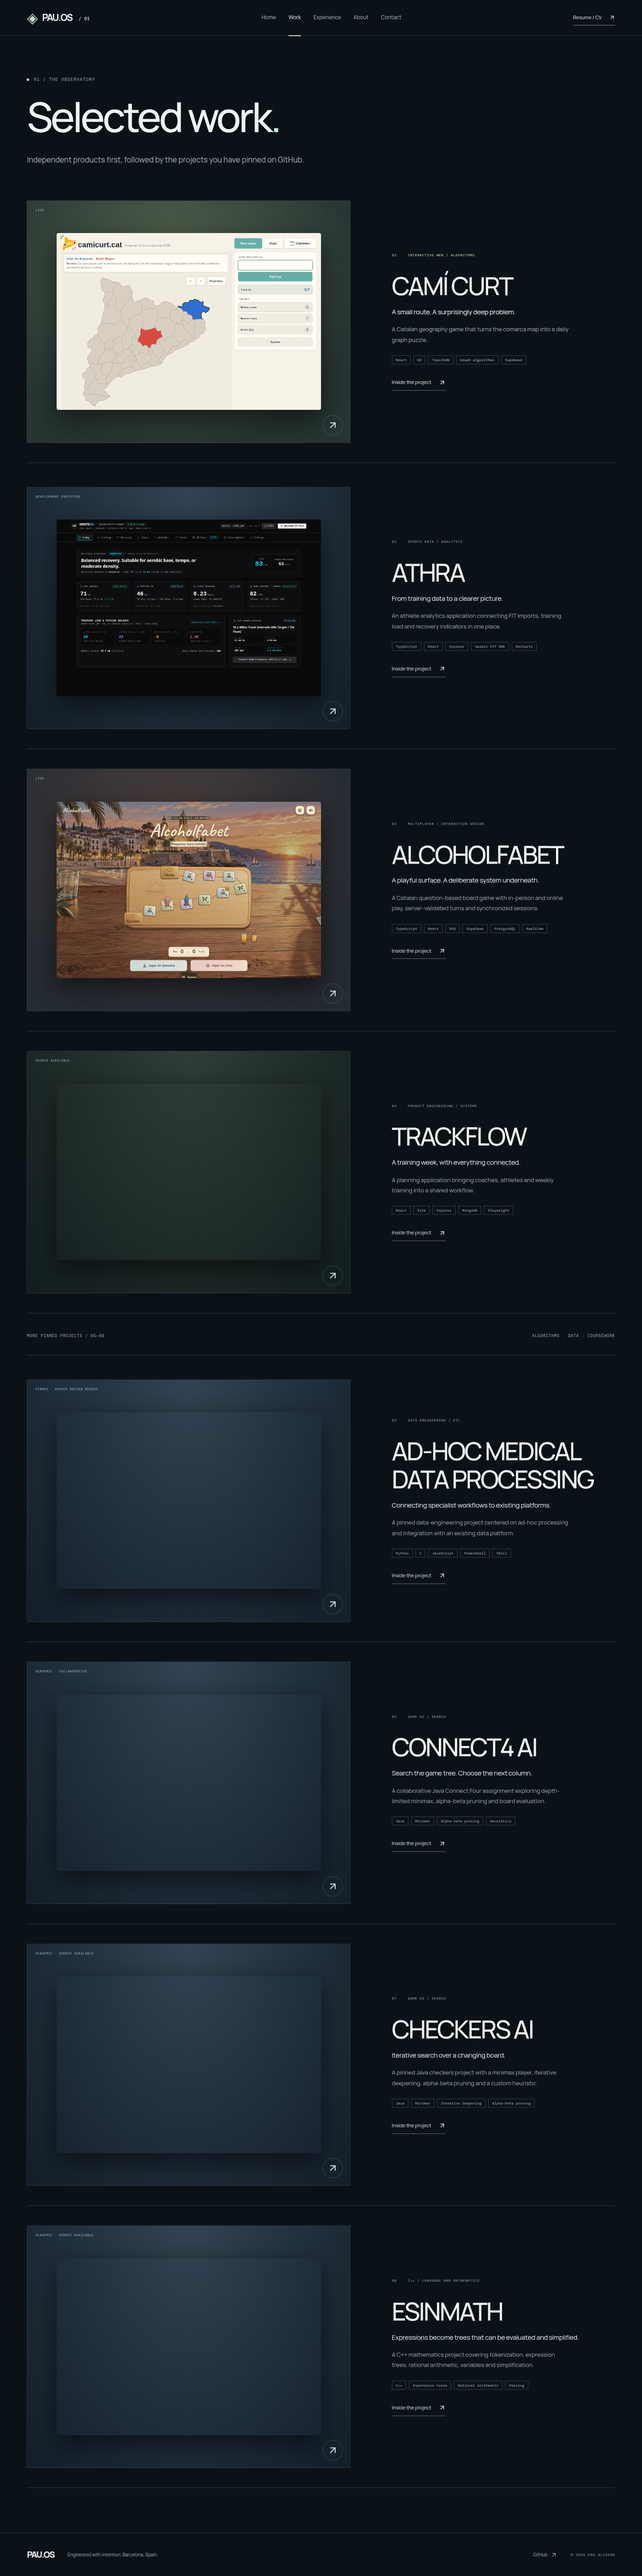
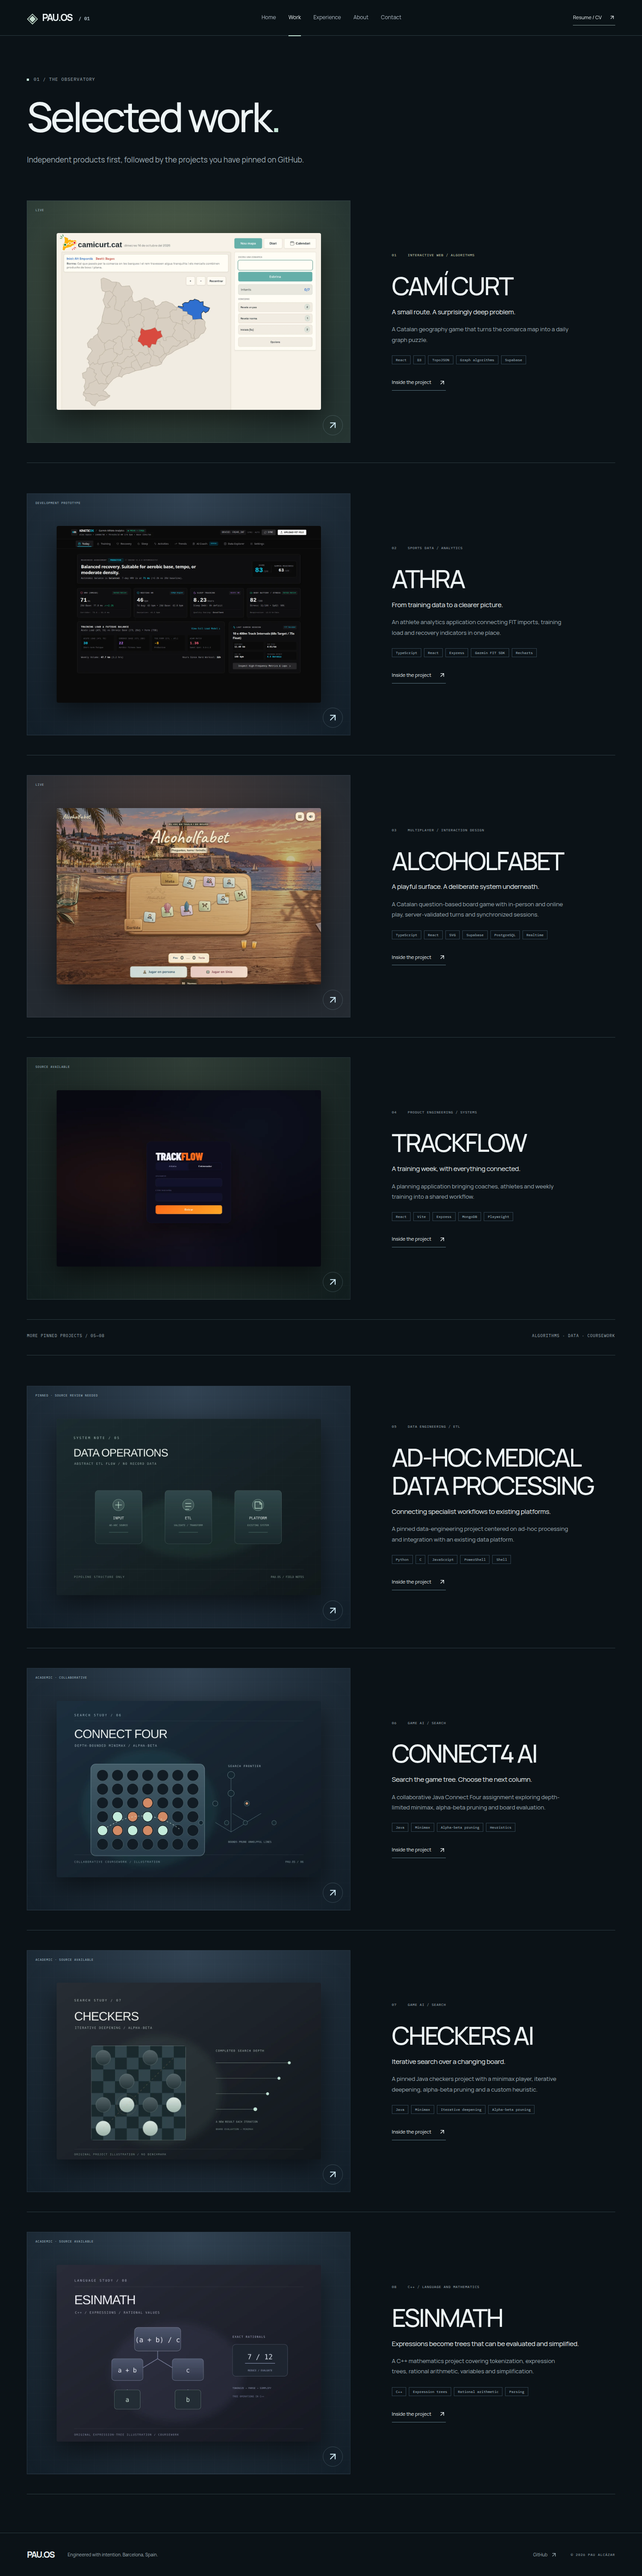
Record pinned project deployment verification

diff --git a/docs/PROJECT_STATUS.md b/docs/PROJECT_STATUS.md
@@ -11,8 +11,8 @@ Updated: 2026-10-14. Checkout: `/home/pau/Documents/pau-os`. This document super
 5. **Data:** CV-derived public professional model and separately generated sanitized one-page PDF; exact five-category/80-entry Toolbox with build-time sync and tested offline fallback; verified project snapshots. Optional Supabase adapter is validated but disabled by default; no shared production data changed.
 6. **Motion/UX:** interruptible camera transitions, skip intro, source-map hover/selection, reduced motion, native scrolling, mobile disclosure, keyboard controls, three quality tiers and WebGL/context-loss fallback.
 7. **Visual refinement:** actual browser renders reviewed; fixed white map overexposure, opaque ground rectangle, scene/text overlap, camera cropping, intersecting gantry and caption contrast. Authentic project screenshots retained/added with provenance. Desktop/mobile professional pages reviewed.
-8. **QA:** production export, lint, TypeScript, 32 unit tests and 14 production Chromium E2E tests pass. Automated axe WCAG A/AA checks passed across ten canonical routes. Privacy/artifact and internal-link reviews passed. Measured High/Medium both reached 60 FPS on local Intel Iris Xe; Low skips the initial 3D bundle. See PERFORMANCE.md for transfer/LCP/CLS and limitations.
-9. **Production preparation:** reproducible static `out/` artifact, source-only secrets boundary, metadata/sitemap/robots, existing owner-private Sites target retained. Updated owner-private deployment succeeded and ten live routes passed browser verification; receipt below.
+8. **QA:** production export, lint, TypeScript, 32 unit tests and 14 production Chromium E2E tests pass. Automated axe WCAG A/AA checks passed across 14 canonical routes. Privacy/artifact and internal-link reviews passed. Measured High/Medium both reached 60 FPS on local Intel Iris Xe; Low skips the initial 3D bundle. See PERFORMANCE.md for transfer/LCP/CLS and limitations.
+9. **Production preparation:** reproducible static `out/` artifact, source-only secrets boundary, metadata/sitemap/robots, existing owner-private Sites target retained. Updated owner-private deployment succeeded and all 14 live routes passed browser verification; receipt below.
 
 ## Test evidence
 
@@ -21,7 +21,7 @@ Updated: 2026-10-14. Checkout: `/home/pau/Documents/pau-os`. This document super
 - `npm test`: 32 tests passed across five files.
 - `npm run build`: pass, all required static pages plus legacy aliases emitted; Toolbox live fetch verified exact source.
 - `npm run test:e2e`: **14/14 passed** after the pinned-project expansion. Includes direct routes for all eight case studies, exact project order, next links, history, rapidly interrupted cameras, installations, fallback, no-JavaScript content, mobile navigation, geography, Toolbox exactness and keyboard controls.
-- Axe checks: no violations for WCAG 2A/2AA/2.1AA on ten canonical routes. This is automated coverage, not a complete human accessibility certification.
+- Axe checks: no violations for WCAG 2A/2AA/2.1AA on 14 canonical routes. This is automated coverage, not a complete human accessibility certification.
 - Privacy review: original CV/private environments untracked and ignored; original private contacts absent from inspected source/export/PDF artifacts. Only the generated sanitized PDF is served. Source metadata retains no private contact values.
 - Static artifact scan: no privileged-key/private-key patterns; original CV and Lab route absent. Exported internal links resolve.
 - Dependencies: production audit has 0 vulnerabilities. Five development entries inherit the unresolved `braces` advisory; see SECURITY.md.
@@ -29,7 +29,7 @@ Updated: 2026-10-14. Checkout: `/home/pau/Documents/pau-os`. This document super
 
 ## Screenshot evidence
 
-`docs/screenshots/observatory.png` (initial composition/full scene), `installation-camicurt.png`, `installation-athra.png`, `installation-alcoholfabet.png`, `installation-trackflow.png`, `work-camicurt.png`, `experience.png`, `about.png`, `resume.png`, `desktop.png`, `desktop-large.png`, `tablet.png`, `mobile.png`, `mobile-work.png` and `fallback.png`. `before-desktop.png` preserves the previous composition. Preliminary development captures are supplemental and may show the Next development overlay; final production captures do not.
+`docs/screenshots/observatory.png` (initial composition/full scene), `installation-camicurt.png`, `installation-athra.png`, `installation-alcoholfabet.png`, `installation-trackflow.png`, `work-pinned-projects.png`, the four `case-*.png` pinned-project case studies, `work-camicurt.png`, `experience.png`, `about.png`, `resume.png`, `desktop.png`, `desktop-large.png`, `tablet.png`, `mobile.png`, `mobile-work.png` and `fallback.png`. `before-desktop.png` preserves the previous composition. Preliminary development captures are supplemental and may show the Next development overlay; final production captures do not.
 
 ## Known limitations and remaining review
 
@@ -37,7 +37,7 @@ Updated: 2026-10-14. Checkout: `/home/pau/Documents/pau-os`. This document super
 - **CV editorial review:** the generated public PDF was checked against the actual CV and inspected for private contacts/client details. Owner editorial review is still recommended before a public launch; the original is unchanged.
 - **Database isolation:** no new dedicated Supabase project was provisioned. The shared connection is read-only audited and untouched; old rows are intentionally not synchronized. Snapshot mode is complete and deployable. Optional remote publishing requires a suitable isolated environment and approved parity data.
 - **Device coverage:** desktop Chromium and emulated 390/768px views tested, not physical Safari/iOS/Android devices. No long GPU-memory soak or field Web Vitals dataset.
-- **Live rendering performance:** the deployed High scene settled at 33–34 FPS in the final browser check, versus 60 FPS in the isolated local benchmark on the same reported GPU. The cause is not isolated; stable live 60 FPS is not verified. Quality controls and static fallback work, but further repeatable live-device profiling is warranted.
+- **Live rendering performance:** the latest deployment rendered WebGL with three settled 60 FPS samples on the reported local Intel Iris Xe browser. This short owner-session sample does not establish stable performance across devices or longer sessions; quality controls and static fallback remain available.
 - **Scope honesty:** illustrative exhibit curves/board/planning structures are not live application data. ATHRA remains a prototype; TrackFlow uses MongoDB. No production game sessions, health records, client records, contact-message endpoint or fabricated project metrics are published.
 - **Pinned medical-data repository:** the public repo contains a tracked environment file with a credential-shaped Mongo connection value and bundled data files. Its PAU.OS case study uses only the public profile summary and source-tree metadata; the repository action is withheld. Review and sanitize the upstream GitHub repo before linking it from a publicly accessible portfolio. No credential value or medical data was read into the app or documentation.
 - Current owner-only audience is for review, not an externally accessible recruitment URL. No sharing change, paid service or custom domain was requested/performed.
@@ -48,15 +48,15 @@ Read this file and ARCHITECTURE.md. `npm run dev` serves port 3100. Run the docu
 
 ## Verified deployment receipt
 
-- Native Sites status: **succeeded**, 2026-10-14T10:20:37Z.
+- Native Sites status: **succeeded**, 2026-10-14 (pinned-project update).
 - URL: https://pau-os-laboratory.poeticcrow1.chatgpt.site
 - Audience: **owner-only**, unchanged. No public sharing enabled.
-- Deployed application/source commit: `81cf8c510e9a95c8e3a1cb564ab1663dc62f17dd`.
-- Deployment ID: `appgdep_6acf5765a66c8191a4fb434fad0fcfae`.
-- Follow-up live browser verification used an already existing owner-authorized read token in memory. No token was created, rotated, printed or saved. All ten canonical routes returned 200 with the expected page headings and zero browser errors; the live WebGL scene also rendered successfully. Evidence: `docs/live-verification.json`, `docs/screenshots/live-private.png` (static presentation), and `docs/screenshots/live-private-3d.png` (actual live scene). Both screenshots were visually inspected.
-- Sanitized native receipt: `.openai/local/deployment-observatory.json` (ignored local state).
-- This receipt, live screenshots and extended verification-script sampling were recorded after publication; the subsequent evidence commit does not change the deployed application.
+- Deployed application/source commit: `bee43097922d35e6a19639c76f046702494ffae1`.
+- Deployment ID: `appgdep_6acf6a2a08a8819185d1e512d53f95d3`.
+- Follow-up live browser verification used an already existing owner-authorized read token in memory. No token was created, rotated, printed or saved. All 14 canonical routes returned 200 with expected headings, the browser reported zero errors, and WebGL rendered. Three settled live FPS samples were 60. Evidence: `docs/live-verification.json`, `docs/screenshots/live-private.png`, and `docs/screenshots/live-private-3d.png`; the Work listing with all eight loaded images is `docs/screenshots/work-pinned-projects.png`.
+- Sanitized native receipt: `.openai/local/deployment-observatory.json` (ignored local state). No shared Supabase resource was modified.
+- The current local app source matches the deployed commit. Screenshot evidence and the deployment receipt were recorded afterward and do not change the deployed application.
 
-The pinned-project additions are included in a new private deployment after this receipt. The four new studies appear after the four primary projects; the medical repository link remains withheld pending upstream credential and data cleanup. Updated live route verification is recorded below.
+The four new studies appear after the four primary projects; the medical repository link remains withheld pending upstream credential and data cleanup.
 
 Owned development/benchmark servers were stopped after validation. Restart with `npm run dev`.
